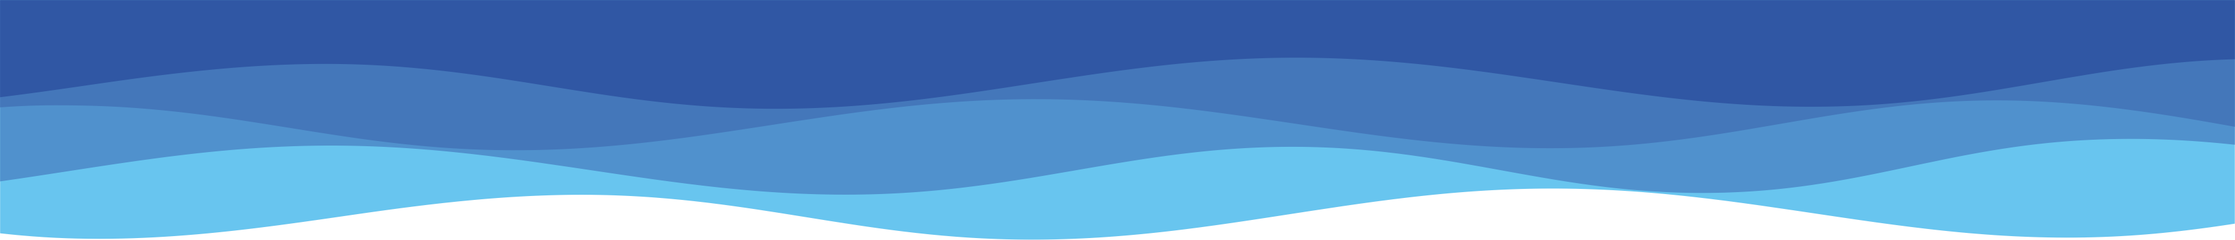
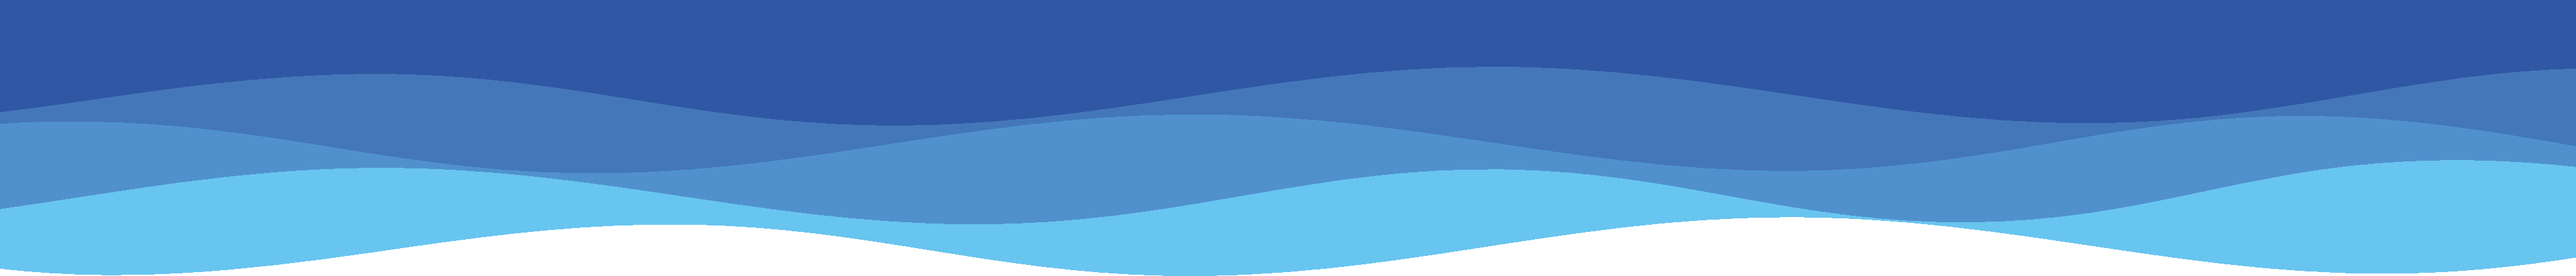
Erro de imagem corrigido e começo da animacao do botao

diff --git a/css/style.css b/css/style.css
@@ -8,17 +8,30 @@
     --cornav: #C9EBFB;
 }
 
+body{
+  display: flex;
+  justify-content: center;
+  flex-direction: column;
+  min-height: 100vh;
+}
+
+section{
+  transition: 0.3s ease-in-out;
+}
+
 .principal{
-    background-image: url("/images/ondas.png");
+    background-image: url("../images/ondas.png");
     background-size: 100%;
     background-repeat: no-repeat;
-    background-position: bottom;
+    background-position-y: 55vh;
     display: flex;
     flex-direction: column;
+    justify-content: center;
     align-items: center;
-    height: 750px;
     width: 100%;    
     background-color: #91d8f7;
+    min-height: 100vh;
+    gap: 80px;
 }
 
 .secao-apresentacao{
@@ -26,8 +39,7 @@
     flex-direction: column;
     align-items: center;
     height: 700px;
-    background: rgb(255,255,255);
-    background: linear-gradient(180deg, rgba(255,255,255,1) 
+    background: linear-gradient(180deg, rgb(255, 255, 255) 
                 0%, rgba(255,254,254,1) 12%, rgba(145,216,247,1) 100%);
     gap: 100px;
 }
@@ -46,6 +58,22 @@
     height: 40%;
     gap: 5%;
 }
+
+#botao-comecar{
+  position:relative;
+  display: inline-block;
+  padding: 12px 36px;
+  margin: 10px 0;
+  color: #FFFFFF;
+  text-decoration: none;
+  text-transform: uppercase;
+  font-size: 20px;
+  letter-spacing: 2px;
+  border-radius: 40px;
+  background: linear-gradient(90deg, #0162c8,#55e7fc);
+}
+
+
 
 #onda-superior{
     width: 100%;

diff --git a/pages/index.html b/pages/index.html
@@ -26,12 +26,15 @@
             </div>
     </header>
     <main class="principal">
-        <div class="taynara-nao-veja"></div>
-        <figure>
-            <img id="logo-lagamar" src="/images/logo.png" alt="">
-        </figure>
+        <div class="principal-imagem">
+            <figure>
+                <img id="logo-lagamar" src="/images/logo.png" alt="">
+            </figure>
+        </div>
+        <a id="botao-comecar" href="#secao-apresentacao">Começar</a>
+        
     </main>
-    <section class="secao-apresentacao">
+    <section class="secao-apresentacao" id="secao-apresentacao">
         <div class="imagem-superior">
             <figure>
                 <img id="onda-superior" src="/images/ondas-superior.png" alt="">
@@ -88,5 +91,6 @@
     <script type="module" src="https://unpkg.com/ionicons@5.5.2/dist/ionicons/ionicons.esm.js"></script>
     <script nomodule src="https://unpkg.com/ionicons@5.5.2/dist/ionicons/ionicons.js"></script>
     <script src="/scripts/mobile-navbar.js"></script>
+    <script src="/scripts/rolagem.js"></script>
 </body>
 </html>

diff --git a/css/navigation.css b/css/navigation.css
@@ -106,12 +106,12 @@ a {
   position: fixed;
   height: calc(var(--btn-size)*1px);
   width: calc(var(--btn-size)*1px);
-  bottom: calc((var(--offset-value))*1px);
+  bottom: calc(150% - (var(--offset-value))*1px);
   left: calc(95% - (var(--btn-size)/2*1px));
   border-radius: 50%;
   background: #ffffff;
   cursor: pointer;
-  padding: 0 15px;
+  padding: 0 15px; 
 }
 
 #toggle-btn {

diff --git a/scripts/rolagem.js b/scripts/rolagem.js
@@ -1,0 +1,5 @@
+$("#botao-comecar").click(function() {
+    $('html, body').animate({
+      scrollTop: $("secao-apresentacao").offset().top
+    }, 2000);
+  });
